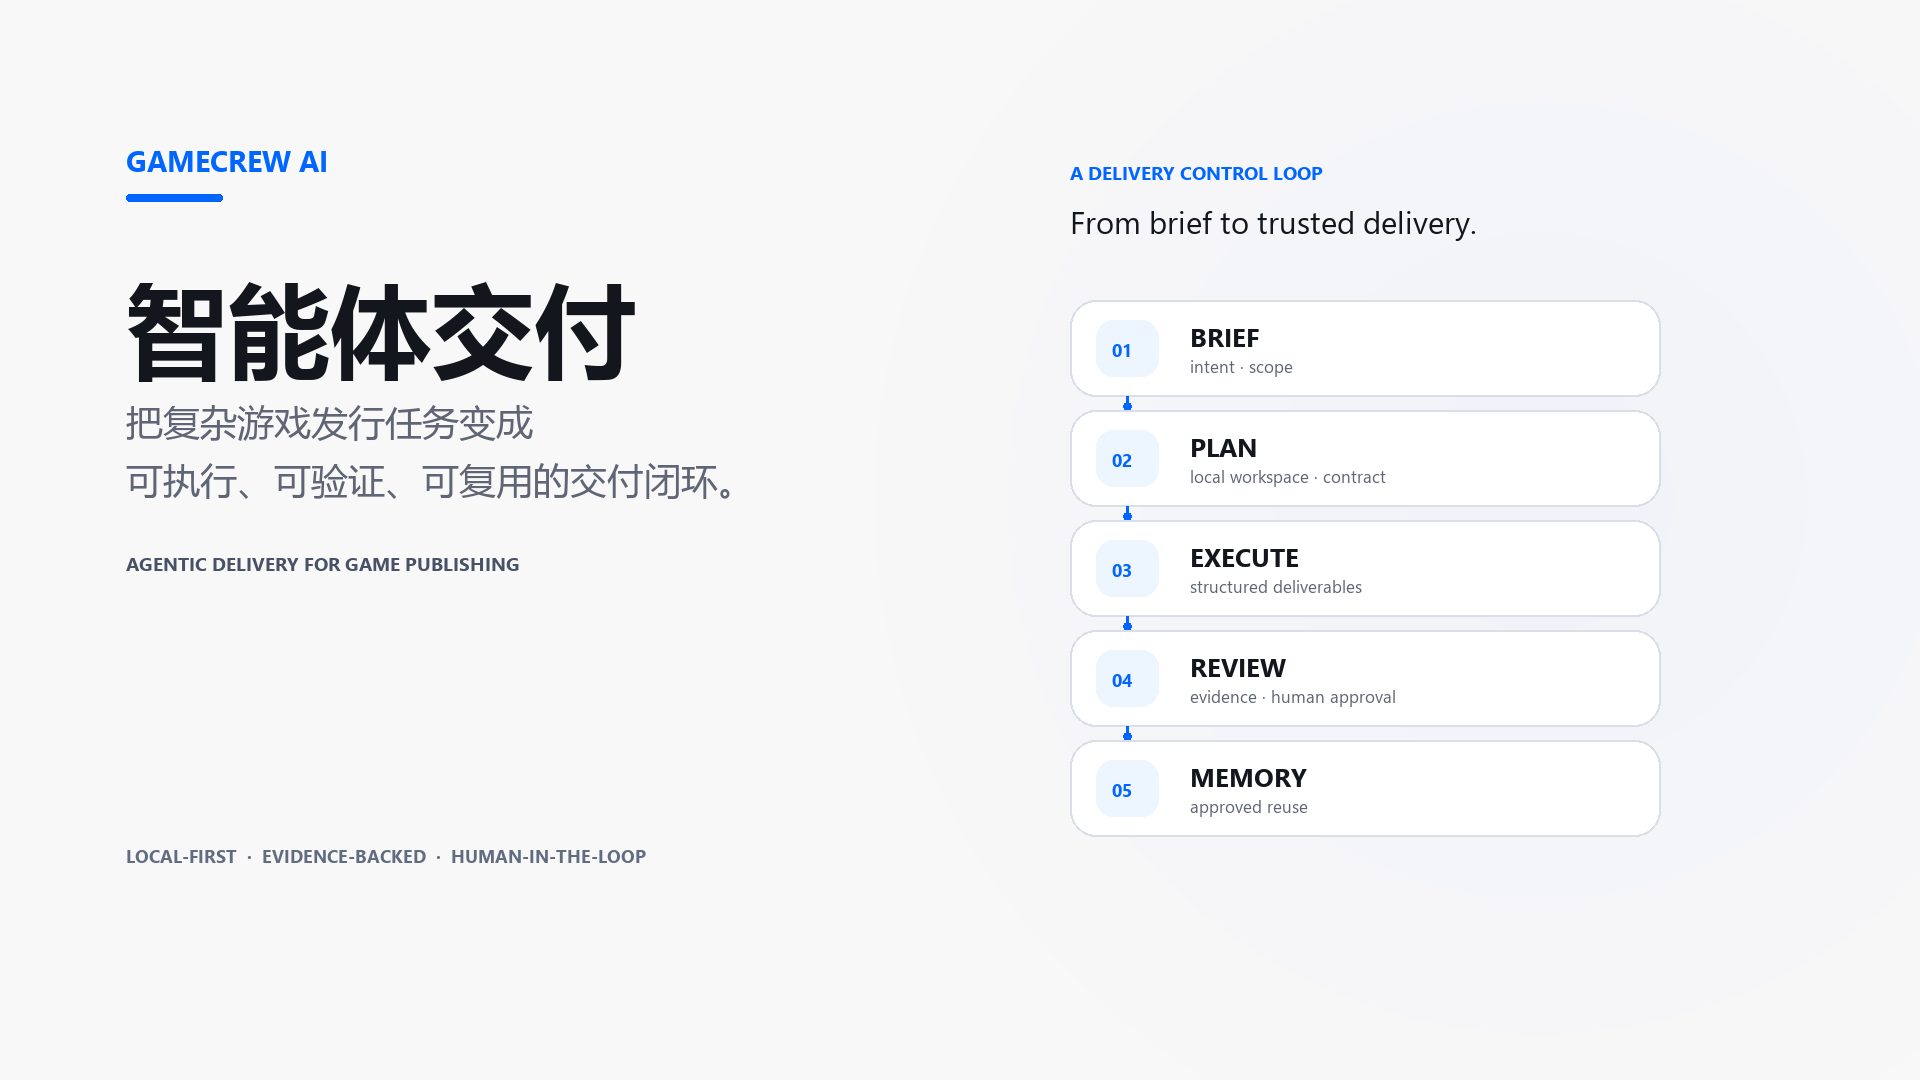
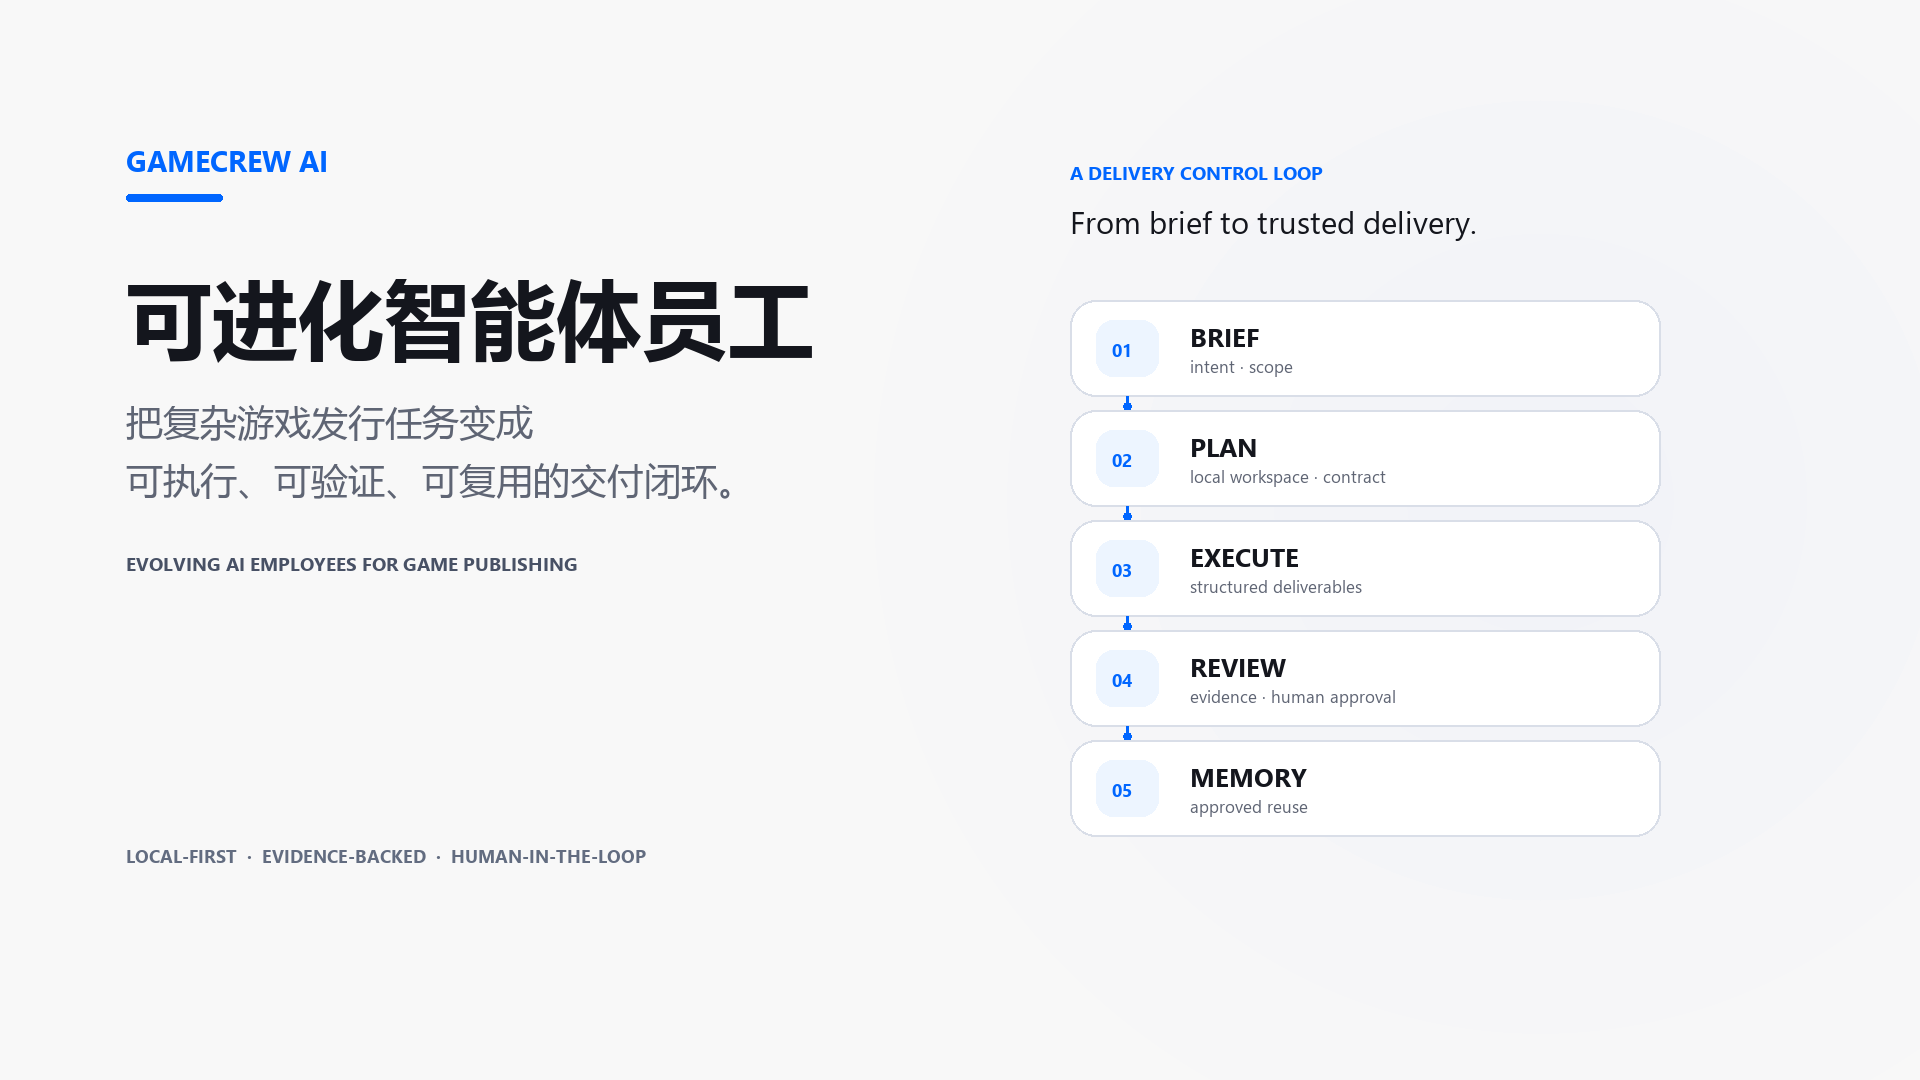
docs: emphasize evolving ai employees

Changed region(s): [[0.0625, 0.2444, 0.4375, 0.3667], [0.0625, 0.5194, 0.3125, 0.55]]

diff --git a/README.md b/README.md
@@ -25,7 +25,7 @@ GameCrew AI 是一个本地优先、面向游戏发行的 AI Team OS。它将 AI
 → 工具调用 → 结构化交付 → 质量验收 → 复盘沉淀
 ```
 
-### 核心卖点
+### 核心能力
 
 - **游戏发行专用**：覆盖市场、数据、创意、投放、运营、知识和工程等发行环节。
 - **向量知识库驱动**：让历史项目、复盘经验和方法规范可检索、可引用、可持续更新。
@@ -66,7 +66,7 @@ Task goal → Intent → Knowledge → Capability preflight → Agent collaborat
 → Tool execution → Structured delivery → Quality review → Retrospective memory
 ```
 
-### Core value propositions
+### Core capabilities
 
 - **Built for game publishing** across market strategy, data, creative, growth, operations, knowledge and engineering.
 - **Vector knowledge memory** that makes project history, lessons and playbooks searchable, citable and continuously maintainable.
